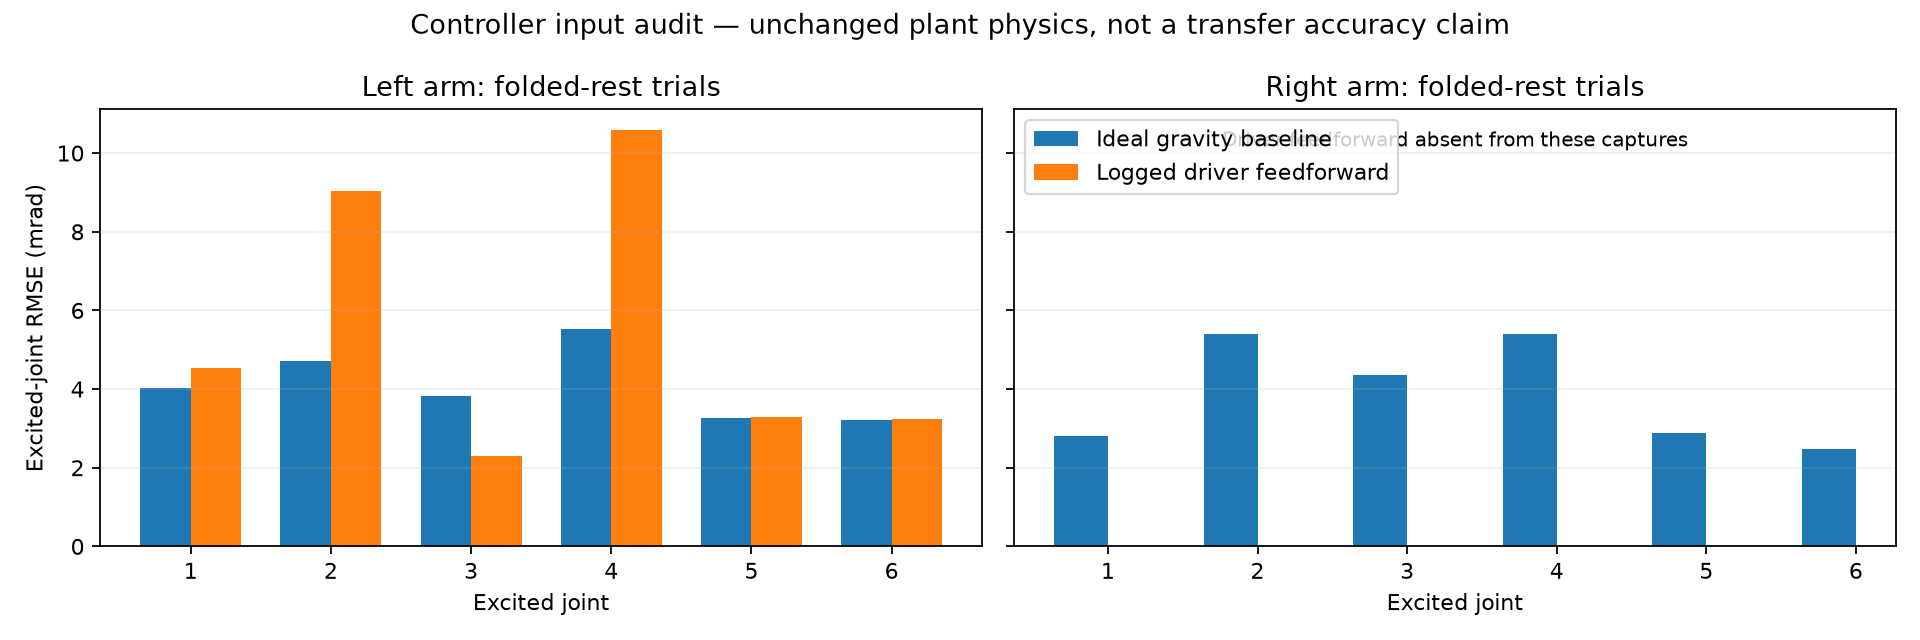
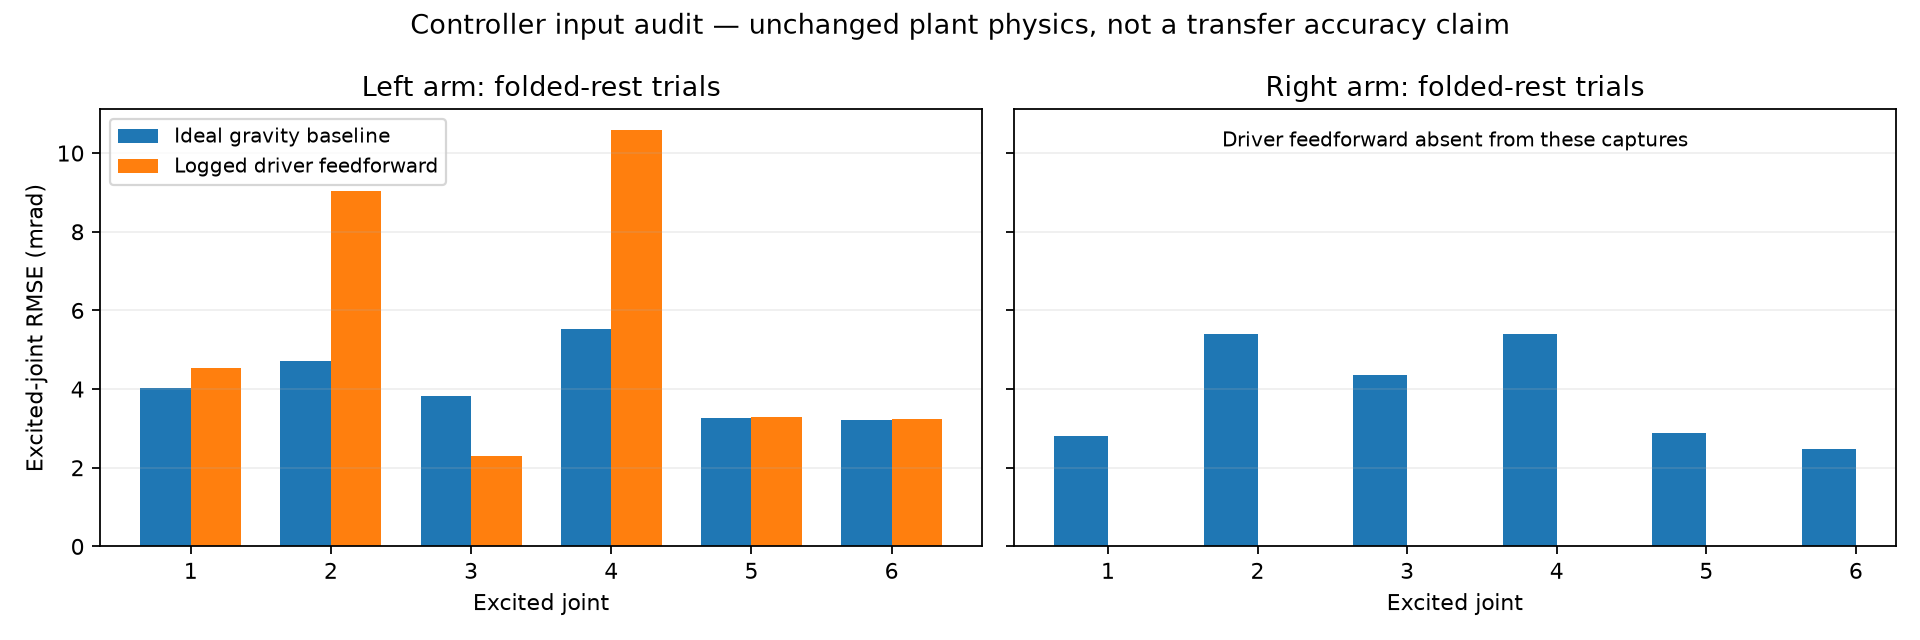
Keep replay comparison annotation readable

Changed region(s): [[0.5312, 0.1875, 0.75, 0.3125], [0.0625, 0.1875, 0.25, 0.2812]]

diff --git a/scripts/tools/summarize_bimanual_replays.py b/scripts/tools/summarize_bimanual_replays.py
@@ -35,7 +35,7 @@ for ax, side in zip(axes, ('left', 'right')):
     ax.set(title=f'{side.capitalize()} arm: folded-rest trials', xlabel='Excited joint', xticks=x)
     ax.grid(axis='y', alpha=.2)
 axes[0].set_ylabel('Excited-joint RMSE (mrad)')
-axes[1].legend()
+axes[0].legend(loc='upper left', fontsize=9)
 fig.suptitle('Controller input audit — unchanged plant physics, not a transfer accuracy claim')
 fig.tight_layout()
 fig.savefig(a.directory / 'feedforward_comparison.png', dpi=160)
